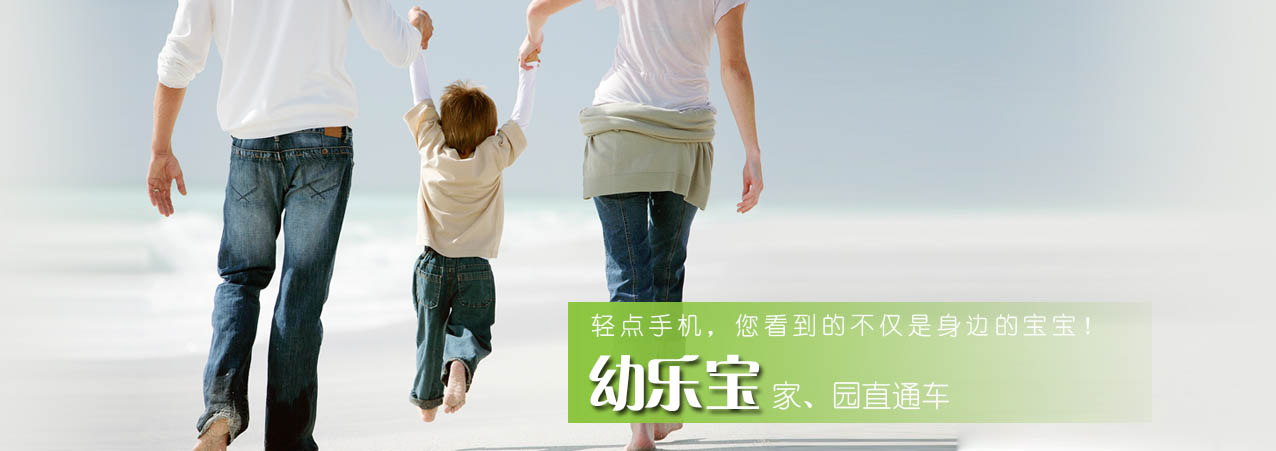
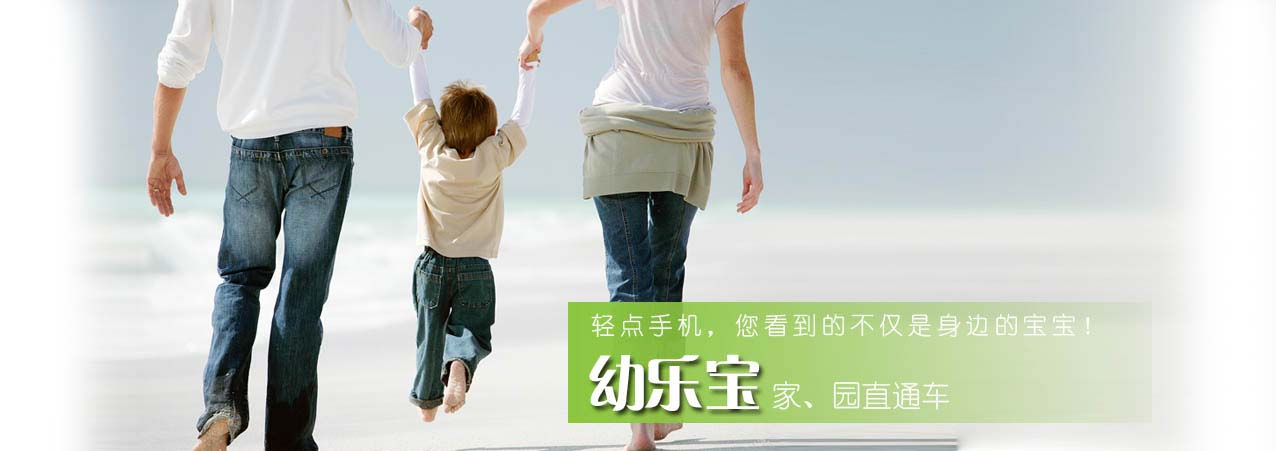
update image resource

diff --git a/app/assets/stylesheets/login.css b/app/assets/stylesheets/login.css
@@ -57,7 +57,7 @@ p.note {
   width: 1136px;
   height: 639px;
   margin: 0 auto;
-  background: url(../../images/login-full-bg.png) no-repeat;
+  background: url(../../images/login-full-bg.jpg) no-repeat;
   position: relative;
 
   .login-form {

diff --git a/app/assets/stylesheets/login.less b/app/assets/stylesheets/login.less
@@ -57,7 +57,7 @@ p.note {
   width: 1136px;
   height: 639px;
   margin: 0 auto;
-  background: url(../../images/login-full-bg.png) no-repeat;
+  background: url(../../images/login-full-bg.jpg) no-repeat;
   position: relative;
 
   .login-form {
